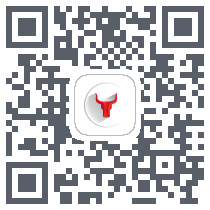
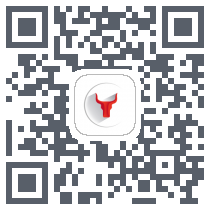
zhou

diff --git a/src/view/indexHeader.vue b/src/view/indexHeader.vue
@@ -99,7 +99,7 @@
 						</el-tooltip>
 					</div>
 					<div style="margin-left: 10px">
-						<a href="https://51gsc.com/app/JJS0"><i class="fa fa-download" aria-hidden="true"></i></a>
+						<a href="https://www.pgyer.com/f3F9"><i class="fa fa-download" aria-hidden="true"></i></a>
 					</div>
 				</div>
 				<!--				登录之后-->
@@ -224,7 +224,7 @@
 					</div>
 					<!--					下载-->
 					<div style="margin-left: 20px">
-						<a href="https://51gsc.com/app/JJS0"><i class="fa fa-download" aria-hidden="true"></i></a>
+						<a href="https://www.pgyer.com/f3F9"><i class="fa fa-download" aria-hidden="true"></i></a>
 					</div>
 
 				</div>

diff --git a/src/view/indexFooter.vue b/src/view/indexFooter.vue
@@ -35,7 +35,7 @@
     <ul class="ft12 foot_ul gray_a">
       <div>
         <li class="mb15 ft16 white">{{$t('header.help')}}</li>
-        <li class="mb15 curPer"><a href="https://51gsc.com/app/JJS0" target="_blank">{{$t('footer.download')}}</a></li>
+        <li class="mb15 curPer"><a href="https://www.pgyer.com/f3F9" target="_blank">{{$t('footer.download')}}</a></li>
         <li class="mb15">
           <!-- <router-link :to="{path:'/components/noticeDetail',query:{id:47}}" class="mr15" tag="span">{{$t('footer.connect')}}</router-link> -->
           <router-link :to="{path:'/noticeHelp'}" tag="span">{{$t('footer.notice')}}</router-link>
